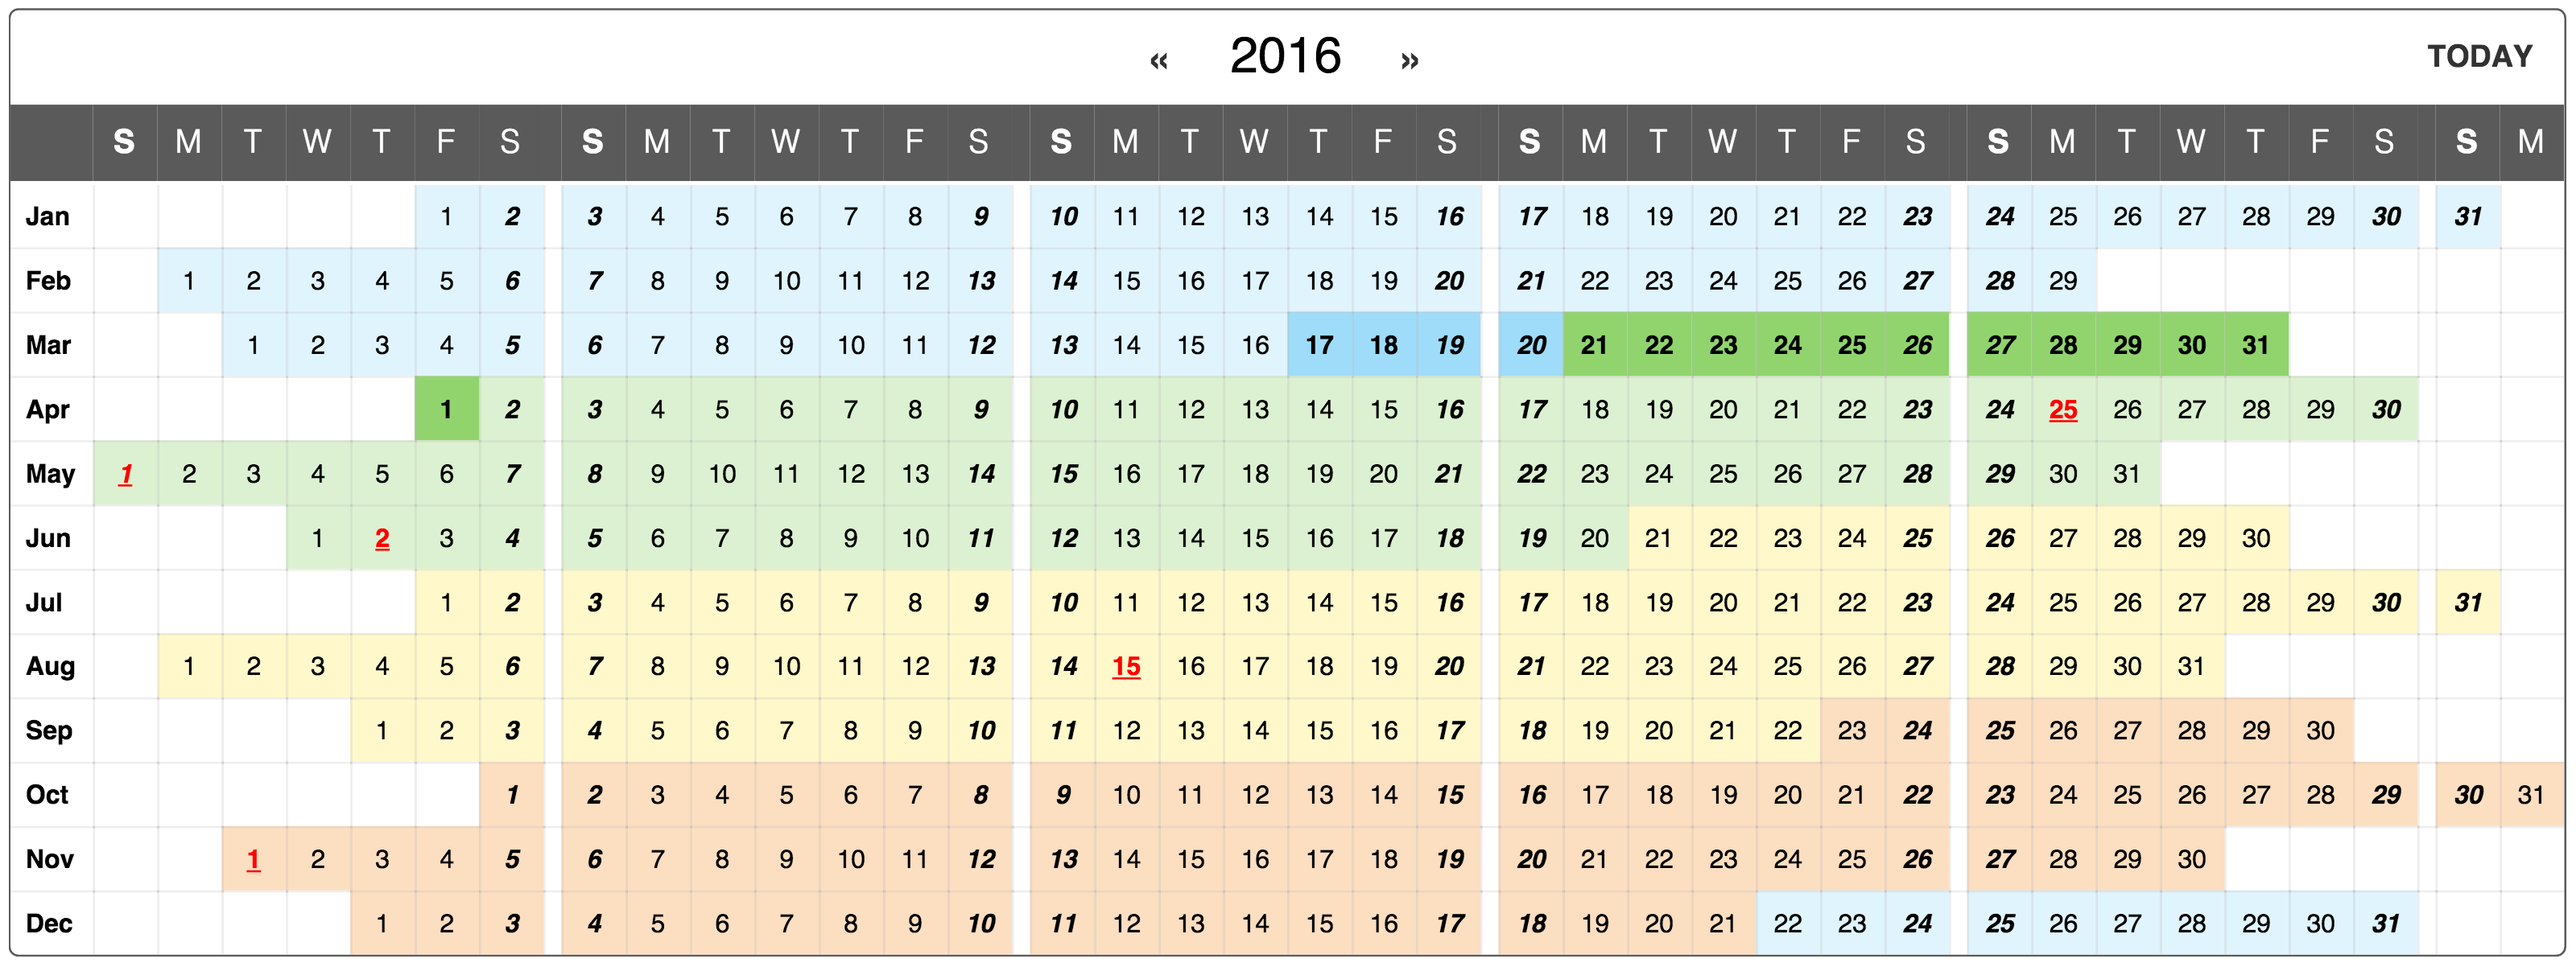
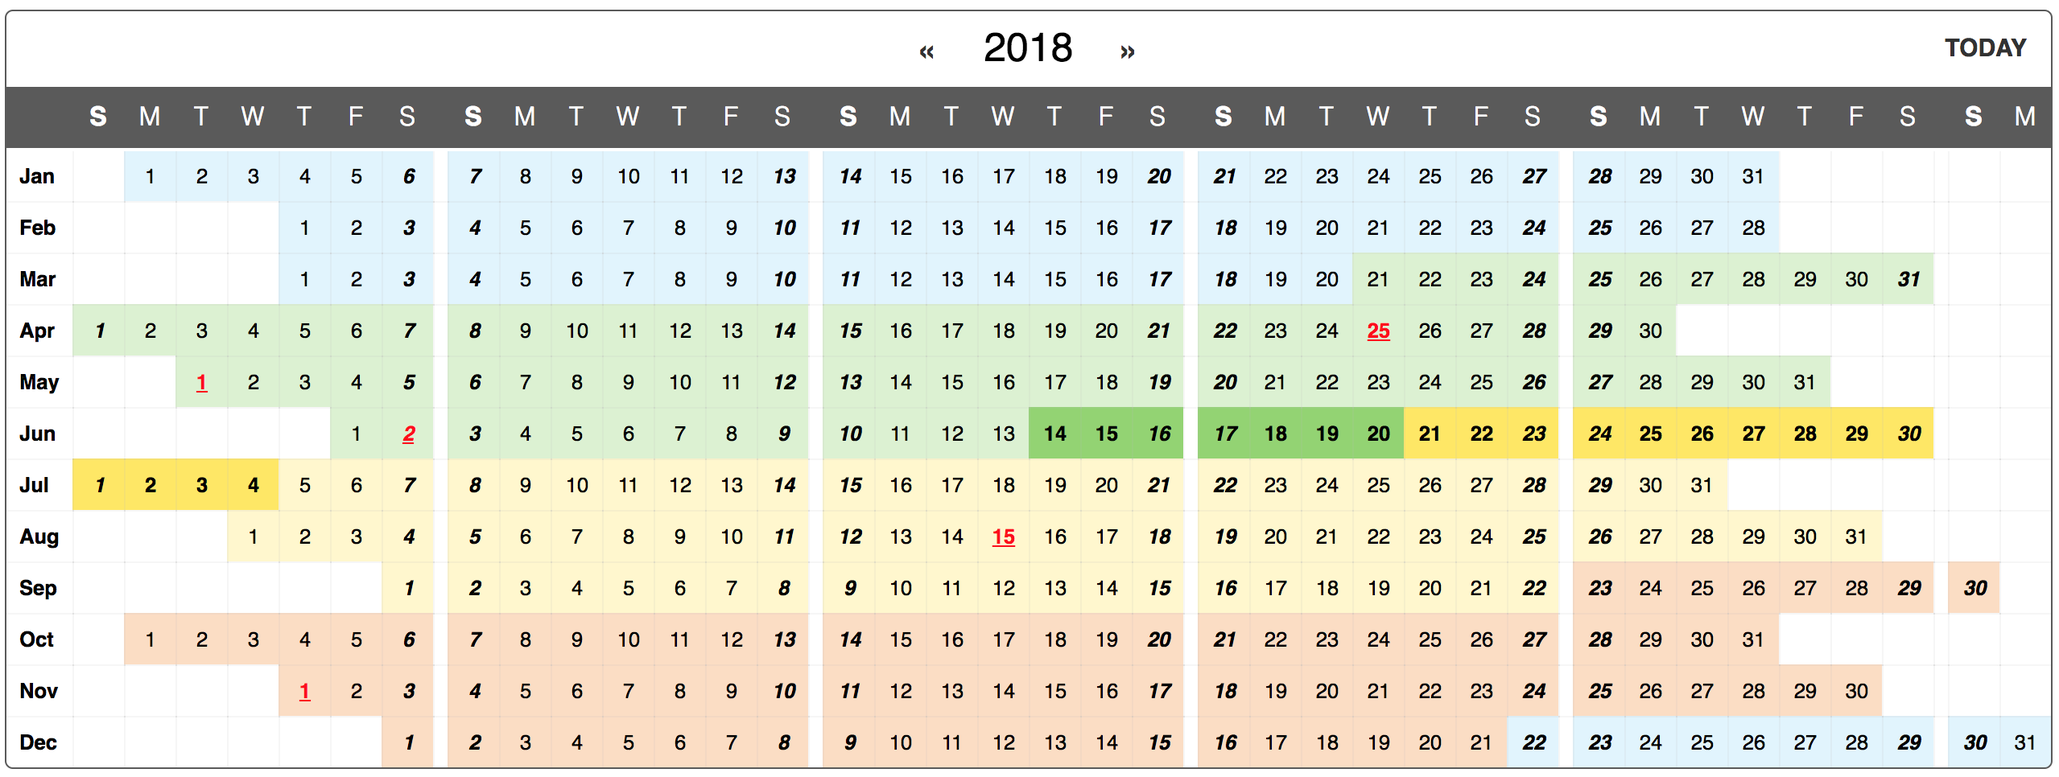
Updating README
Linking example css file, updating screenshot

diff --git a/README.md b/README.md
@@ -76,7 +76,7 @@ ReactDOM.render(
 ## Styling guide
 The calendar is rendered as an html `table` element, to ensure proper displaying even in case the style isn't being loaded.
 
-Take a look at the css file in `examples/basic/style.css`. Here are some head-ups if you want to style it yourself.
+Take a look at the css file in [`examples/basic/src/style.css`](https://github.com/BelkaLab/react-yearly-calendar/blob/master/examples/basic/src/style.css). Here are some head-ups if you want to style it yourself.
 
  - `table.calendar`: the main element that renders the calendar
  - `table.calendar thead`: renders the week day names
